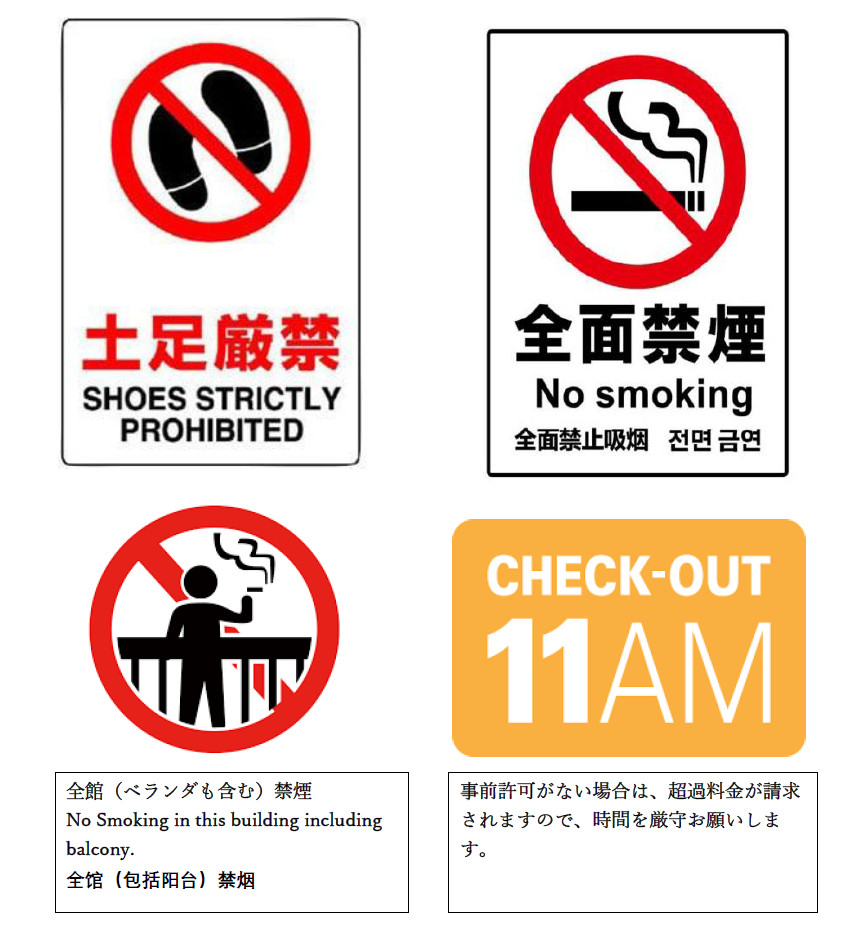
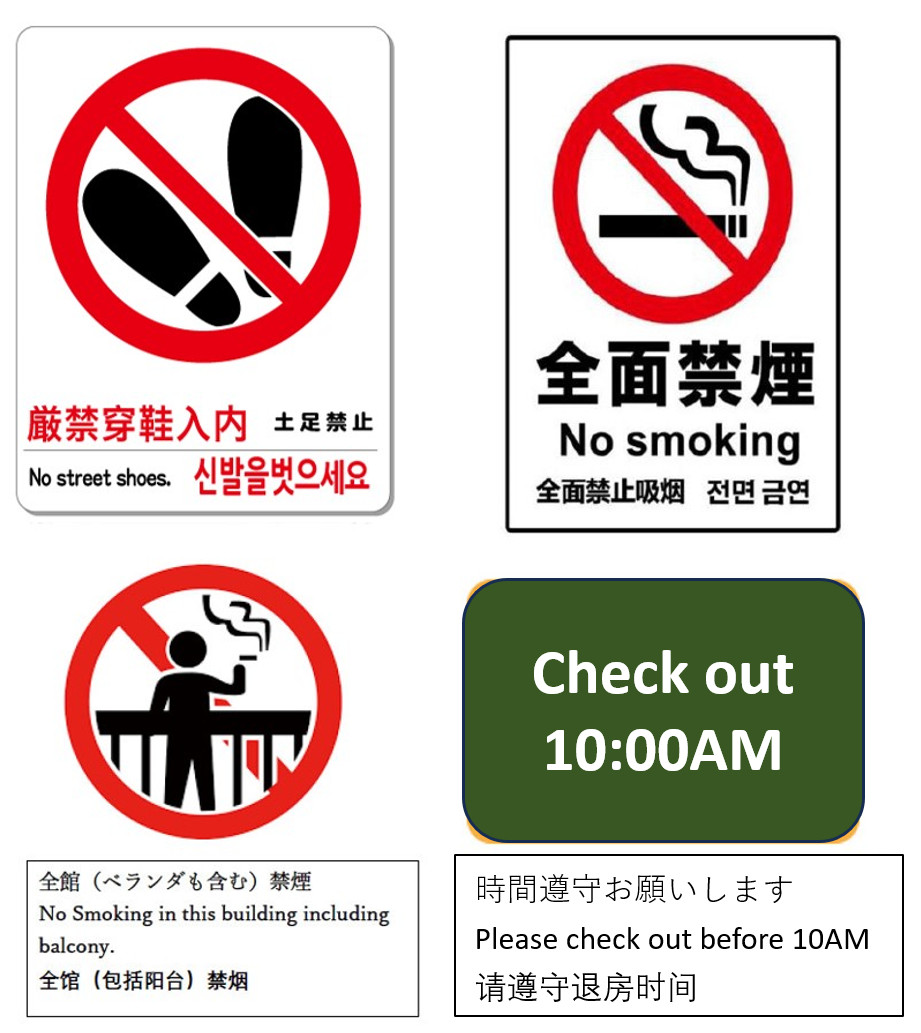
check out

diff --git a/ja/houserules.html b/ja/houserules.html
@@ -162,7 +162,7 @@
 
                     <div class="col-lg-6">
 
-                        <img class="img-fluid pb-1" src="../assets/img/rooms/rules.png" alt>
+                        <img class="img-fluid pb-1" src="../assets/img/rooms/rules.jpg" alt>
 
                     </div>
                     <div class="col-lg-6 ">
@@ -171,7 +171,7 @@
                                 <li>1. 土足禁止</li>
                                 <li>2. 全館禁煙（バルコニーを含む） </li>
                                 <li>3. チェックイン： 16:00-</li>
-                                <li>4. チェックアウト：-11AM </li>
+                                <li>4. チェックアウト：-10AM </li>
                                 <li>5. 外出時は、全館の窓、ドアを閉めてください。 </li>
                                 <li>6. 外出時は、エアコン、テレビ、照明などの家電製品の電源はお切りください。 </li>
                                 <li>7. エアコンを利用する時、部屋の窓、ドアを閉めてください。 </li>
@@ -245,7 +245,7 @@
                                     <li>(17) 長期の宿泊利用により、居住に関する法律上の権利が発生するものではないことをご了承ください。<br></li>
                                     <li>(18) 外出時は、エアコン、テレビ、照明などの家電製品の電源はお切りください。<br></li>
                                     <li>(19) 未成年者のみのご宿泊は、保護者の許可がない限りお断りいたします。<br></li>
-                                    <li>(20) 原則、チェックイン時間は16時以降、チェックアウト時間は11 AM時までです。時間を厳守ください。<br><a href="checkout.html">チェックアウト手順に従ってください。</a></li>
+                                    <li>(20) 原則、チェックイン時間は16時以降、チェックアウト時間は10 AM時までです。時間を厳守ください。<br><a href="checkout.html">チェックアウト手順に従ってください。</a></li>
 
                             </div>
                         </div>

diff --git a/zh/houserules.html b/zh/houserules.html
@@ -154,7 +154,7 @@
                         <p>我诚恳地请求您遵守以下重要规定：</p>
                     </div>
                     <div class="col-lg-6">
-                        <img class="img-fluid pb-1" src="../assets/img/rooms/rules.png" alt>
+                        <img class="img-fluid pb-1" src="../assets/img/rooms/rules.jpg" alt>
                     </div>
                     <div class="col-lg-6 ">
                         <div class="features  pt-3">
@@ -162,7 +162,7 @@
                                 <li>1. 室内禁止穿鞋进入，须换拖鞋</li>
                                 <li>2. 整个旅馆禁止吸烟（包括阳台）。在大门外边关上门可吸烟，注意把烟蒂熄灭。</li>
                                 <li>3. 入住时间：下午4点后</li>
-                                <li>4. 退房时间：上午11点前</li>
+                                <li>4. 退房时间：上午10点前</li>
                                 <li>5. 外出时，请关闭整个设施的所有窗户和大门</li>
                                 <li>6. 外出时，请关闭空调、电视和照明等电器设备</li>
                                 <li>7. 使用空调时，请关闭房门和窗户</li>
@@ -226,7 +226,7 @@
                                     <li>(17) 请注意，长期居住并不会产生与居住相关的法定权利。<br></li>
                                     <li>(18) 外出时，请关闭空调、电视、照明等家电设备的电源。<br></li>
                                     <li>(19) 未成年人的住宿需得到监护人的许可，否则将被拒绝。<br></li>
-                                    <li>(20) 原则上，入住时间为下午4点后，退房时间为上午11点。请严格遵守时间。<br><a href="checkout.html">请遵循退房步骤。</a>
+                                    <li>(20) 原则上，入住时间为下午4点后，退房时间为上午10点。请严格遵守时间。<br><a href="checkout.html">请遵循退房步骤。</a>
                                     </li>
                                 </ul>
                             </div>

diff --git a/en/houserules.html b/en/houserules.html
@@ -156,7 +156,7 @@
                     </div>
 
                     <div class="col-lg-6">
-                        <img class="img-fluid pb-1" src="../assets/img/rooms/rules.png" alt>
+                        <img class="img-fluid pb-1" src="../assets/img/rooms/rules.jpg" alt>
                     </div>
                     <div class="col-lg-6 ">
                         <div class="features  pt-3">
@@ -164,7 +164,7 @@
                                 <li>1. No shoes allowed indoors</li>
                                 <li>2. Entire facility is non-smoking (including balconies)</li>
                                 <li>3. Check-in: 4:00 PM onwards</li>
-                                <li>4. Check-out: by 11:00 AM</li>
+                                <li>4. Check-out: by 10:00 AM</li>
                                 <li>5. When going out, please close all windows and doors throughout the facility</li>
                                 <li>6. Turn off electronic appliances such as air conditioning, TV, and lights when
                                     going out
@@ -285,7 +285,7 @@
                                         lighting.<br></li>
                                     <li>(19) Accommodations for minors only are not allowed without the consent of a
                                         guardian.<br></li>
-                                    <li>(20) In principle, check-in time is after 4 PM, and check-out time is by 11 AM.
+                                    <li>(20) In principle, check-in time is after 4 PM, and check-out time is by 10 AM.
                                         Please adhere to the
                                         schedule strictly.<br><a href="checkout.html"> Please follow these checkout steps.</a></li>
                                 </ul>
